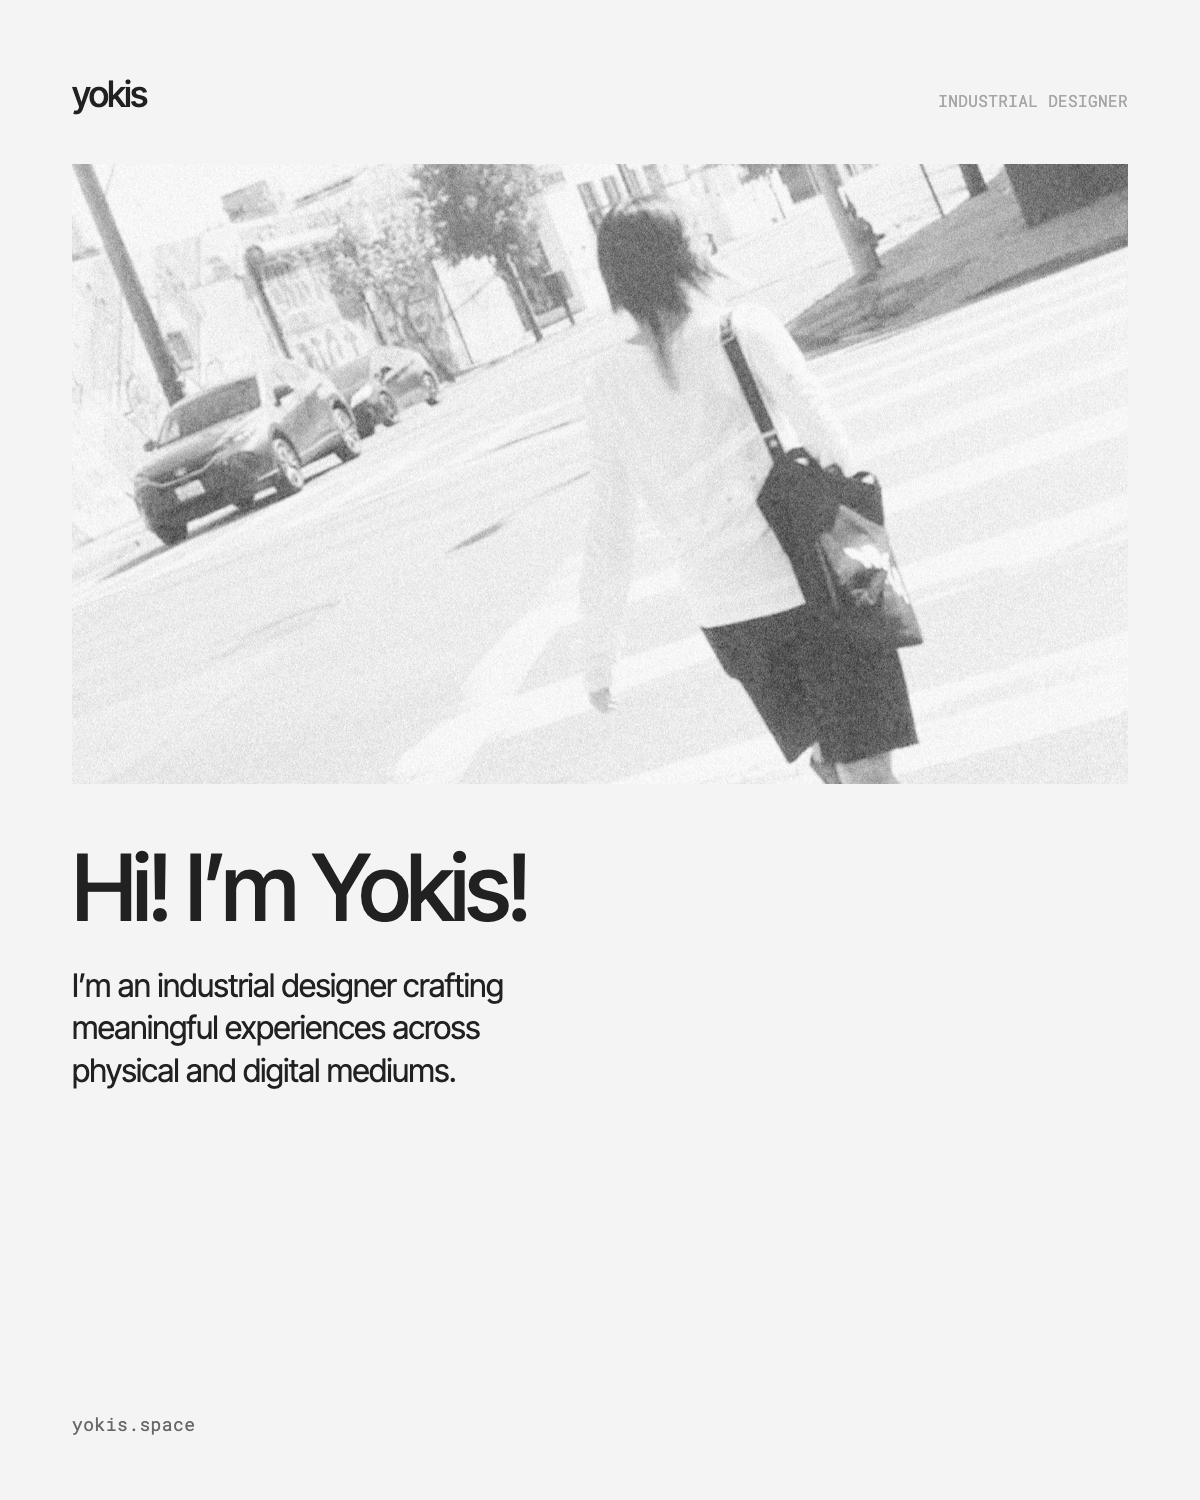
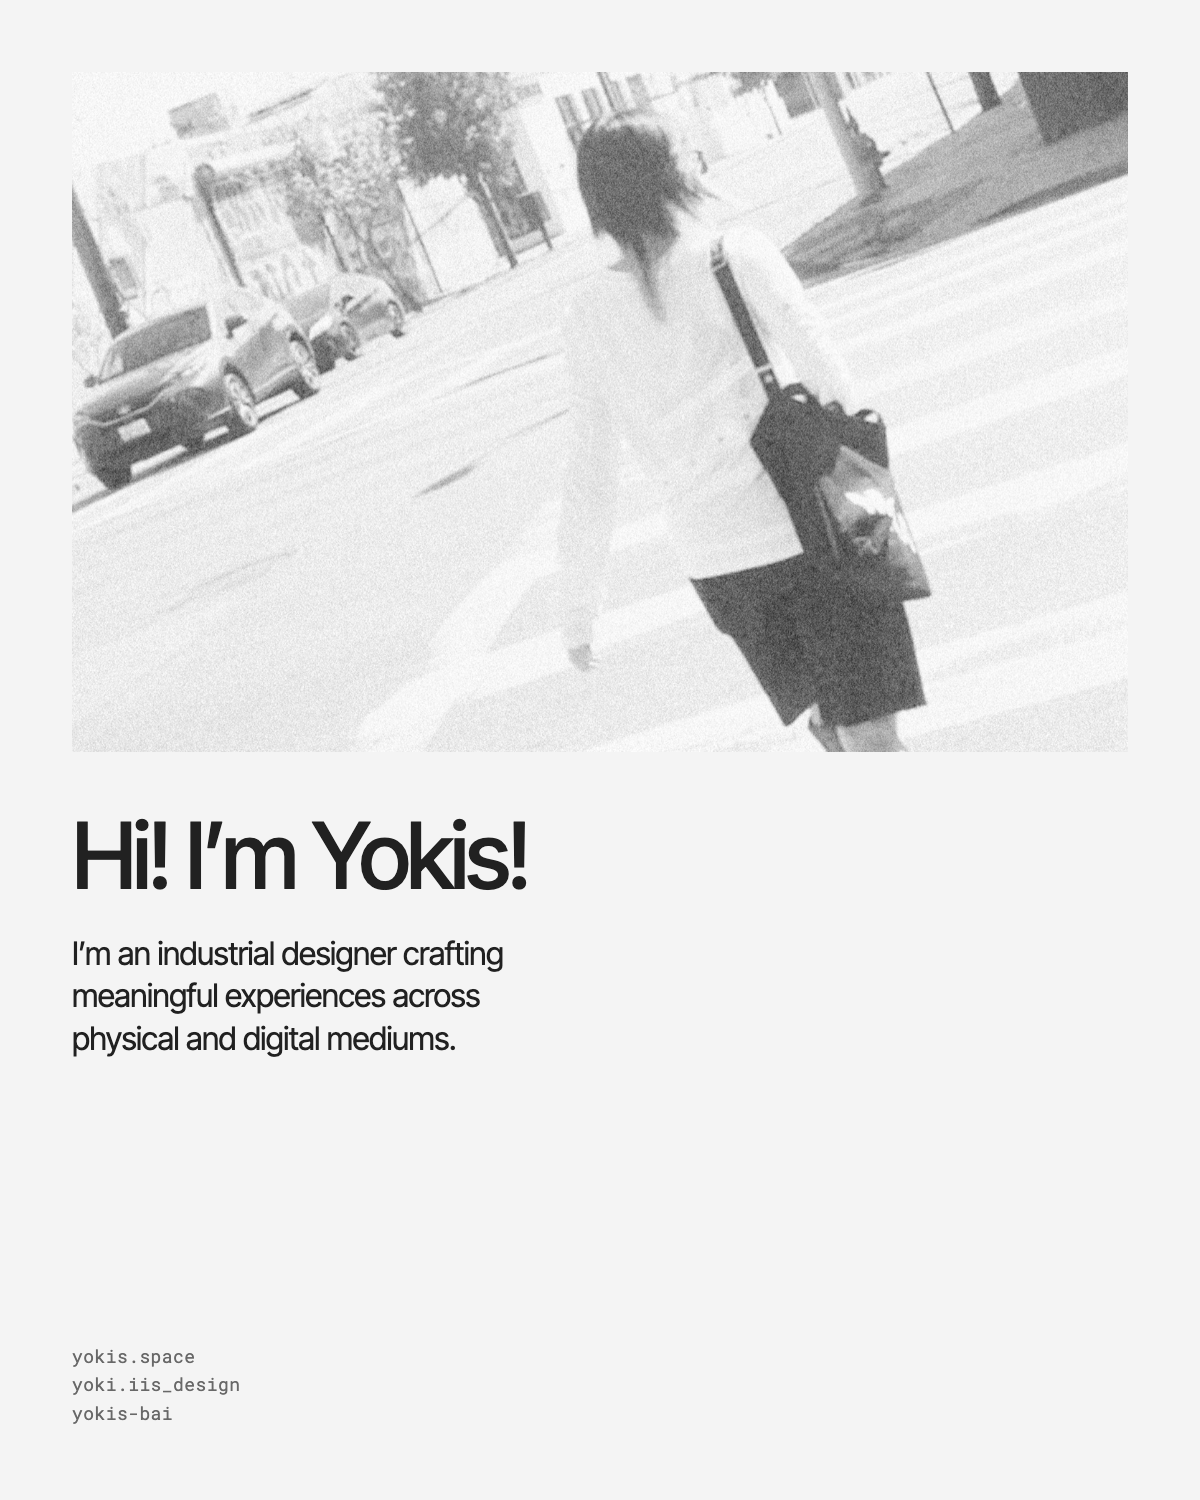
Stack the project previews and simplify the image viewer and card.

diff --git a/index.html b/index.html
@@ -167,12 +167,11 @@
       line-height: var(--leading-base);
     }
 
-    /* Two 1:1 previews side by side, so both fit on one phone screen. */
     .now .section-label { margin-bottom: var(--space-sm); }
     .projects {
       display: grid;
-      grid-template-columns: 1fr 1fr;
-      gap: var(--space-xs);
+      grid-template-columns: 1fr;
+      gap: var(--space-md);
     }
     .project {
       display: block;
@@ -192,8 +191,8 @@
     }
     .project-title {
       display: block;
-      margin-top: var(--space-2xs);
-      font-size: var(--text-sm);
+      margin-top: var(--space-xs);
+      font-size: var(--text-lg);
       font-weight: 500;
       letter-spacing: var(--tracking-display);
       line-height: var(--leading-tight);
@@ -266,34 +265,20 @@
       box-shadow: var(--shadow-button);
     }
 
-    dialog {
-      width: min(100% - var(--space-lg), var(--page));
-      max-height: calc(100dvh - var(--space-lg));
+    dialog.preview {
+      width: min(92vw, 92dvh, var(--page));
+      aspect-ratio: 1;
       margin: auto;
       padding: 0;
       border: 0;
-      background: var(--color-body);
-      color: var(--color-primary);
+      background: transparent;
+      overflow: hidden;
     }
     dialog::backdrop { background: var(--color-overlay); }
-    .preview-bar {
-      display: flex;
-      align-items: center;
-      justify-content: space-between;
-      gap: var(--space-sm);
-      padding: var(--space-xs) var(--space-sm);
-    }
-    .close {
-      min-width: 44px;
-      min-height: 44px;
-      border: 0;
-      background: transparent;
-      cursor: pointer;
-      font-size: var(--text-xs);
-    }
     .reel {
       display: flex;
-      align-items: flex-start;
+      width: 100%;
+      height: 100%;
       overflow-x: auto;
       scroll-snap-type: x mandatory;
       scroll-behavior: smooth;
@@ -303,34 +288,34 @@
     .reel img {
       flex: 0 0 100%;
       width: 100%;
-      height: auto;
-      aspect-ratio: 1;
-      object-fit: contain;
+      height: 100%;
+      object-fit: cover;
       scroll-snap-align: start;
-      background: var(--color-body-render);
     }
-    .reel-nav {
+    .float {
+      position: absolute;
+      z-index: 1;
       display: grid;
-      grid-template-columns: 1fr 1fr;
-      gap: var(--space-xs);
-      padding: var(--space-xs) var(--space-sm) var(--space-sm);
-    }
-    .reel-nav button {
-      min-height: 44px;
-      border: 1px solid var(--color-line-light);
+      place-items: center;
+      width: 44px;
+      height: 44px;
+      padding: 0;
+      border: 0;
       border-radius: var(--radius-pill);
-      background: transparent;
+      background: rgb(244 244 244 / 0.88);
+      color: var(--color-primary);
       cursor: pointer;
     }
+    .float svg { width: 18px; height: 18px; }
+    .float.prev { left: var(--space-xs); top: 50%; transform: translateY(-50%); }
+    .float.next { right: var(--space-xs); top: 50%; transform: translateY(-50%); }
+    .float.close { top: var(--space-xs); right: var(--space-xs); }
 
     @media (hover: hover) {
       a, .project, .action {
         transition: opacity var(--duration-link) var(--ease-out);
       }
       a:hover, .project:hover, .action:hover { opacity: 0.55; }
-    }
-    @media (min-width: 768px) {
-      .projects { gap: var(--space-md); }
     }
     body:has(dialog[open]) .actions { display: none; }
     @media (prefers-reduced-motion: reduce) {
@@ -359,17 +344,17 @@
       <ul class="experience">
         <li>
           <p class="role">ArtCenter College of Design</p>
-          <p class="meta">Graduate Industrial Design — graduating Fall 2026</p>
+          <p class="meta">GradID, graduating 26 Fall</p>
         </li>
         <li>
           <!-- EDIT URL -->
           <p class="role"><a href="https://www.instagram.com/yangdesign_sh/" target="_blank" rel="noopener noreferrer">YANG DESIGN</a></p>
-          <p class="meta">Previously CMF Intern<br>Shanghai, China</p>
+          <p class="meta">CMF intern, Shanghai China</p>
         </li>
         <li>
           <!-- EDIT URL -->
           <p class="role"><a href="https://www.instagram.com/caraway_home/" target="_blank" rel="noopener noreferrer">Caraway Home</a></p>
-          <p class="meta">Incoming Industrial Design Intern<br>Los Angeles, CA</p>
+          <p class="meta">Incoming ID intern, Los Angeles CA</p>
         </li>
       </ul>
     </section>
@@ -411,52 +396,36 @@
   </div>
 
   <dialog id="unea-preview" class="preview">
-    <div class="preview-bar">
-      <p class="label">Unea</p>
-      <p class="count label">1 / 3</p>
-      <form method="dialog"><button class="close" type="submit">Close</button></form>
-    </div>
     <div class="reel">
       <img src="assets/unea/01.png" alt="Unea, a brushed metal wrist wearable, shown at an angle" width="1000" height="1000">
       <img src="assets/unea/02.png" alt="Unea as the clasp of a clear bead bracelet" width="1000" height="1000">
       <img src="assets/unea/03.jpg" alt="Unea worn on a wrist, in black and white" width="1000" height="1000">
     </div>
-    <div class="reel-nav">
-      <button type="button" data-dir="-1">Previous</button>
-      <button type="button" data-dir="1">Next</button>
-    </div>
+    <button class="float prev" type="button" data-dir="-1" aria-label="Previous"><svg viewBox="0 0 18 18" aria-hidden="true"><path d="M11 4 L6 9 L11 14" fill="none" stroke="currentColor" stroke-width="1.6" stroke-linecap="round" stroke-linejoin="round"/></svg></button>
+    <button class="float next" type="button" data-dir="1" aria-label="Next"><svg viewBox="0 0 18 18" aria-hidden="true"><path d="M7 4 L12 9 L7 14" fill="none" stroke="currentColor" stroke-width="1.6" stroke-linecap="round" stroke-linejoin="round"/></svg></button>
+    <form method="dialog"><button class="float close" type="submit" aria-label="Close"><svg viewBox="0 0 18 18" aria-hidden="true"><path d="M4 4 L14 14 M14 4 L4 14" fill="none" stroke="currentColor" stroke-width="1.6" stroke-linecap="round"/></svg></button></form>
   </dialog>
 
   <dialog id="nijimu-preview" class="preview">
-    <div class="preview-bar">
-      <p class="label">Nijimu</p>
-      <p class="count label">1 / 3</p>
-      <form method="dialog"><button class="close" type="submit">Close</button></form>
-    </div>
     <div class="reel">
       <img src="assets/nijimu/01.png" alt="Nijimu, an interactive memory timeline on a soft abstract field" width="800" height="800">
       <img src="assets/nijimu/02.png" alt="Nijimu asking what color a memory feels like" width="800" height="800">
       <img src="assets/nijimu/03.jpg" alt="Nijimu on a laptop screen, with the line Finding the thread between poetry, film, and design" width="1000" height="1000">
     </div>
-    <div class="reel-nav">
-      <button type="button" data-dir="-1">Previous</button>
-      <button type="button" data-dir="1">Next</button>
-    </div>
+    <button class="float prev" type="button" data-dir="-1" aria-label="Previous"><svg viewBox="0 0 18 18" aria-hidden="true"><path d="M11 4 L6 9 L11 14" fill="none" stroke="currentColor" stroke-width="1.6" stroke-linecap="round" stroke-linejoin="round"/></svg></button>
+    <button class="float next" type="button" data-dir="1" aria-label="Next"><svg viewBox="0 0 18 18" aria-hidden="true"><path d="M7 4 L12 9 L7 14" fill="none" stroke="currentColor" stroke-width="1.6" stroke-linecap="round" stroke-linejoin="round"/></svg></button>
+    <form method="dialog"><button class="float close" type="submit" aria-label="Close"><svg viewBox="0 0 18 18" aria-hidden="true"><path d="M4 4 L14 14 M14 4 L4 14" fill="none" stroke="currentColor" stroke-width="1.6" stroke-linecap="round"/></svg></button></form>
   </dialog>
 
   <script>
     document.querySelectorAll("[data-open]").forEach(function (button) {
       var dialog = document.getElementById(button.getAttribute("data-open"));
       var reel = dialog.querySelector(".reel");
-      var count = dialog.querySelector(".count");
       var slides = reel.querySelectorAll("img");
 
       function place() {
         var width = reel.clientWidth || 1;
         return Math.round(reel.scrollLeft / width);
-      }
-      function update() {
-        count.textContent = place() + 1 + " / " + slides.length;
       }
       function go(direction) {
         var width = reel.clientWidth;
@@ -467,9 +436,7 @@
       button.addEventListener("click", function () {
         dialog.showModal();
         reel.scrollLeft = 0;
-        update();
       });
-      reel.addEventListener("scroll", update, { passive: true });
       dialog.querySelector("[data-dir='-1']").addEventListener("click", function () { go(-1); });
       dialog.querySelector("[data-dir='1']").addEventListener("click", function () { go(1); });
       dialog.addEventListener("click", function (event) {
